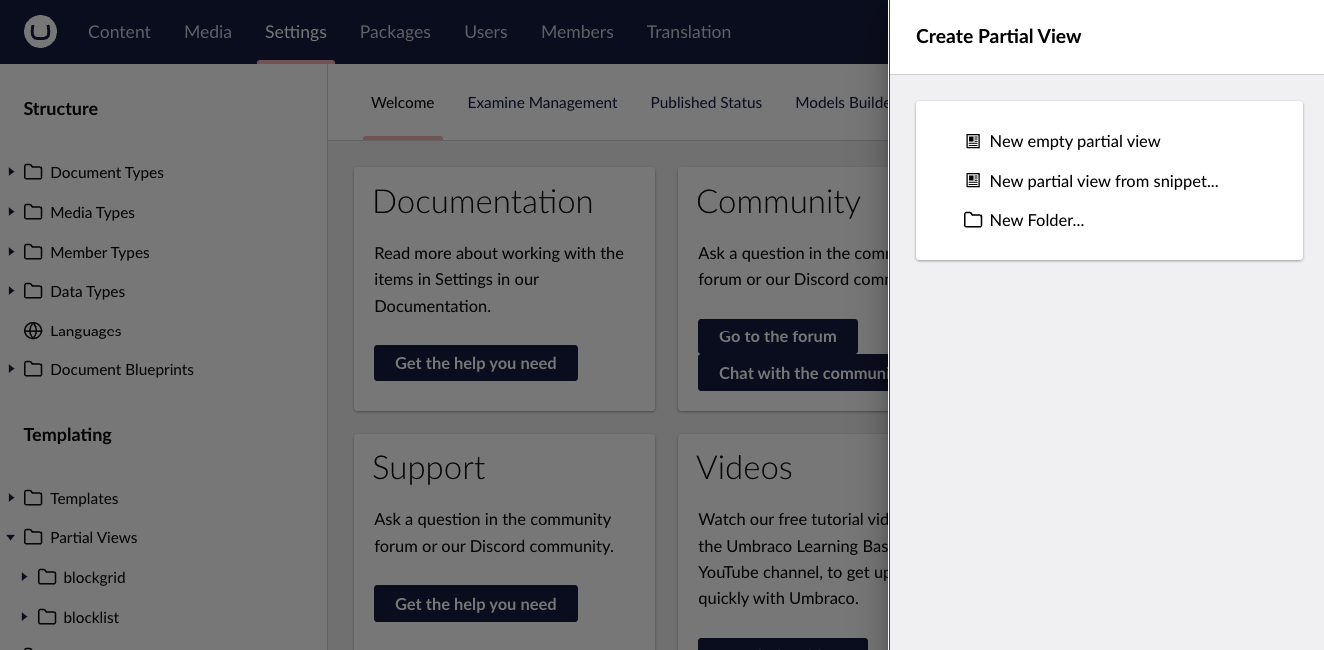
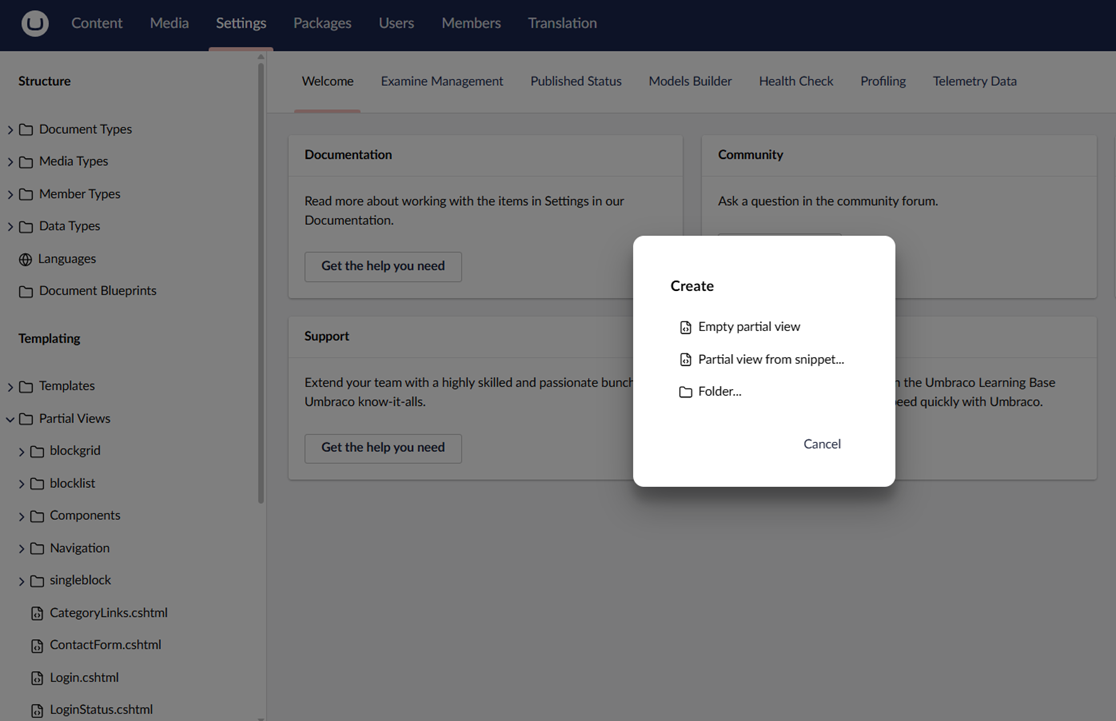
Updated images and code

diff --git a/17/umbraco-cms/fundamentals/design/partial-views.md b/17/umbraco-cms/fundamentals/design/partial-views.md
@@ -4,19 +4,19 @@ description: Information on working with partial views in Umbraco
 
 # Partial Views
 
-A Partial View (`.cshtml` file) is a regular view that can be used multiple times throughout your site. A Partial View is used to break up large markup files into smaller components such as header, footer, navigation menu, etc. It helps to reduce the duplication of code. A partial view renders a view within the parent view.
+A Partial View (`.cshtml` file) is a regular view that can be used multiple times throughout your site. A Partial View is used to break up large markup files into smaller components such as header, footer, navigation menu, and so on. It helps to reduce the duplication of code. A partial view renders a view within the parent view.
 
 ## Partial Views in the Backoffice
 
-You can create and edit partial views in the **Partial Views** folder from the **Settings** section of the Backoffice.
+You can create and edit partial views from the **Partial Views** folder in the **Settings** section of the Backoffice.
 
 ![Creating a new partial view](../../.gitbook/assets/create-partial.png)
 
 In the **Create** menu, there are three options available:
 
-* New empty partial view
-* New partial view from snippet
-* Folder (for keeping the partial views organized)
+* Empty partial view
+* Partial view from snippet
+* Folder... (for keeping the partial views organized)
 
 ## Creating a Partial View
 
@@ -25,11 +25,11 @@ To create a partial view:
 1. Go to the **Settings** section in the Umbraco backoffice.
 2. Click **...** next to the **Partial Views** folder.
 3. Choose **Create**.
-4. Select **New empty partial view**.
+4. Select **Empty partial view**.
 5. Enter a partial view name.
 6. Click the **Save** button. You will now see the partial view markup in the backoffice editor.
 
-<figure><img src="../../.gitbook/assets/image (23).png" alt="Created partial view"><figcaption><p>Created partial view</p></figcaption></figure>
+<figure><img src="../../.gitbook/assets/Created-partial-view.png" alt="Created partial view"><figcaption><p>Created partial view</p></figcaption></figure>
 
 By default, the partial views are saved in the `Views/Partials` folder in the solution.
 
@@ -42,11 +42,11 @@ To create a partial view from the snippet:
 1. Go to the **Settings** section in the Umbraco backoffice.
 2. Click **...** next to the **Partial Views** folder.
 3. Choose **Create**.
-4. Select **New empty partial view from snippet**.
+4. Select **Empty partial view from snippet**.
 5. Select the snippet you want to create a partial view for and enter a partial view name. The code snippet you selected is displayed in the backoffice editor.
 6. Click the **Save** button.
 
-<figure><img src="../../.gitbook/assets/image (25).png" alt=""><figcaption><p>Created partial view from snippet</p></figcaption></figure>
+<figure><img src="../../.gitbook/assets/Created-partial-view-from-snippet.png" alt=""><figcaption><p>Created partial view from snippet</p></figcaption></figure>
 
 Umbraco provides the following partial view snippets:
 
@@ -77,35 +77,24 @@ To create a folder:
 5. Enter a folder name.
 6. Click the **Create** button.
 
-<div align="center"><figure><img src="../../.gitbook/assets/image (26).png" alt="Created folder"><figcaption><p>Created folder</p></figcaption></figure></div>
+<div align="center"><figure><img src="../../.gitbook/assets/Created-folder.png" alt="Created folder"><figcaption><p>Created folder</p></figcaption></figure></div>
 
 ## Rendering a Partial View
 
-To render the created partial view into any template, use any of these helper methods: `@Html.PartialAsync`, `@Html.Partial()`, or `@Html.RenderPartial()`
+To render a partial view into any template, use any of these helper methods:
+
+1. Using `PartialAsync` (async Razor helper)
 
 ```csharp
-@using Umbraco.Cms.Web.Common.PublishedModels;
-@inherits Umbraco.Cms.Web.Common.Views.UmbracoViewPage<ContentModels.HomePage>
-@using ContentModels = Umbraco.Cms.Web.Common.PublishedModels;
-@{
-	Layout = null;
-}
+@await Html.PartialAsync("~/Views/Partials/Login.cshtml")
+```
 
-@await Html.PartialAsync("Login")
+2. Using the `<partial>` Razor tag helper
 
-@Html.Partial("Login")
-
-@{
- Html.RenderPartial("Login");   
-}
+```csharp
+<partial name="~/Views/Partials/Login.cshtml" />
 ```
 
 ### Related Articles
 
 * [Using MVC Partial Views in Umbraco](../../reference/templating/mvc/partial-views.md)
-
-### Video Materials
-
-{% embed url="https://www.youtube.com/watch?ab_channel=UmbracoLearningBase&v=RcYM_DJ-JnQ" %}
-Getting started with Umbraco: Partial Views
-{% endembed %}

diff --git a/17/umbraco-cms/tutorials/members-registration-and-login.md b/17/umbraco-cms/tutorials/members-registration-and-login.md
@@ -74,12 +74,14 @@ The **Content Base** and **Navigation Base** Compositions are available once the
 {% code title="Login.cshtml" %}
 
 ```cshtml
-@inherits Umbraco.Cms.Web.Common.Views.UmbracoViewPage
+@using Umbraco.Cms.Web.Common.PublishedModels;
+@inherits Umbraco.Cms.Web.Common.Views.UmbracoViewPage<ContentModels.Login>
+@using ContentModels = Umbraco.Cms.Web.Common.PublishedModels;
 @{
     Layout = "_Master.cshtml";
 }
 
-@Html.Partial("~/Views/Partials/SectionHeader.cshtml")
+<partial name="Partials/SectionHeader"/>
 
 <section class="section">
 
@@ -87,18 +89,19 @@ The **Content Base** and **Navigation Base** Compositions are available once the
 
         <div class="col-md-3">
             <nav class="nav-bar nav-bar--list">
-                @Html.Partial("~/Views/Partials/Navigation/SubNavigation.cshtml")
+                <partial name="Partials/Navigation/SubNavigation" />
             </nav>
         </div>
 
         <div class="col-md-9">
             <article>
-                @await Html.GetBlockGridHtmlAsync(Model, "bodyText")
+             @await Html.GetBlockGridHtmlAsync(Model, "bodyText")
             </article>
             <article>
-                @await Html.PartialAsync("partials/loginStatus")
-                @await Html.PartialAsync("partials/register")
-                @await Html.PartialAsync("partials/login")
+                @await Html.PartialAsync("~/Views/Partials/LoginStatus.cshtml")
+                @await Html.PartialAsync("~/Views/Partials/Login.cshtml")
+                @await Html.PartialAsync("~/Views/Partials/Register.cshtml")
+               
             </article>
         </div>
     </div>
@@ -122,13 +125,13 @@ The **Content Base** and **Navigation Base** Compositions are available once the
 5. Go to the **Info** tab.
 6. Click on the link under the **Links** section.
 
-The Register and Login functionality is rendered by the "Login" template:
+The Login and Register functionality is rendered by the **Login** template:
 
-![The Register/Login functionality rendered](../.gitbook/assets/v14-register-login-page-rendered.png)
+![The Login/Register functionality rendered](../.gitbook/assets/register-login-page-rendered.png)
 
-You can now use the page to register new Members. Every registered person will show up in the Members section in the backoffice:
+You can now use the page to register new Members. Every registered person will show up in the **Members** section in the backoffice:
 
-![Overview of created Members](../.gitbook/assets/v14-members-overview.png)
+![Overview of created Members](../.gitbook/assets/members-overview.png)
 
 The "LoginStatus" partial view comes into play after registering as a new Member (or logging in as an existing Member). It will render a welcome message and a "log out" button:
 
@@ -164,7 +167,7 @@ We can take this a bit further and specify which parts of our website should be 
 1. Go to the **Member** section in the Backoffice.
 2. Create a new **Member Group**.
 
-![Create a new member group](../.gitbook/assets/v14-create-member-group.png)
+![Create a new member group](../.gitbook/assets/create-member-group.png)
 
 3. Give the group a name.
 4. Save the Member Group.
@@ -172,7 +175,7 @@ We can take this a bit further and specify which parts of our website should be 
 ![Naming the new member group](../.gitbook/assets/v14-create-member-group-step-2.png)
 
 5. Navigate back to the created Member.
-6. Assign the newly created Member Group.
+6. Go to the **Info** tab and assign the newly created Member Group.
 7. Save the member:
 
 ![Assign the new Member group to the created Member](../.gitbook/assets/v14-assign-member-group.png)
